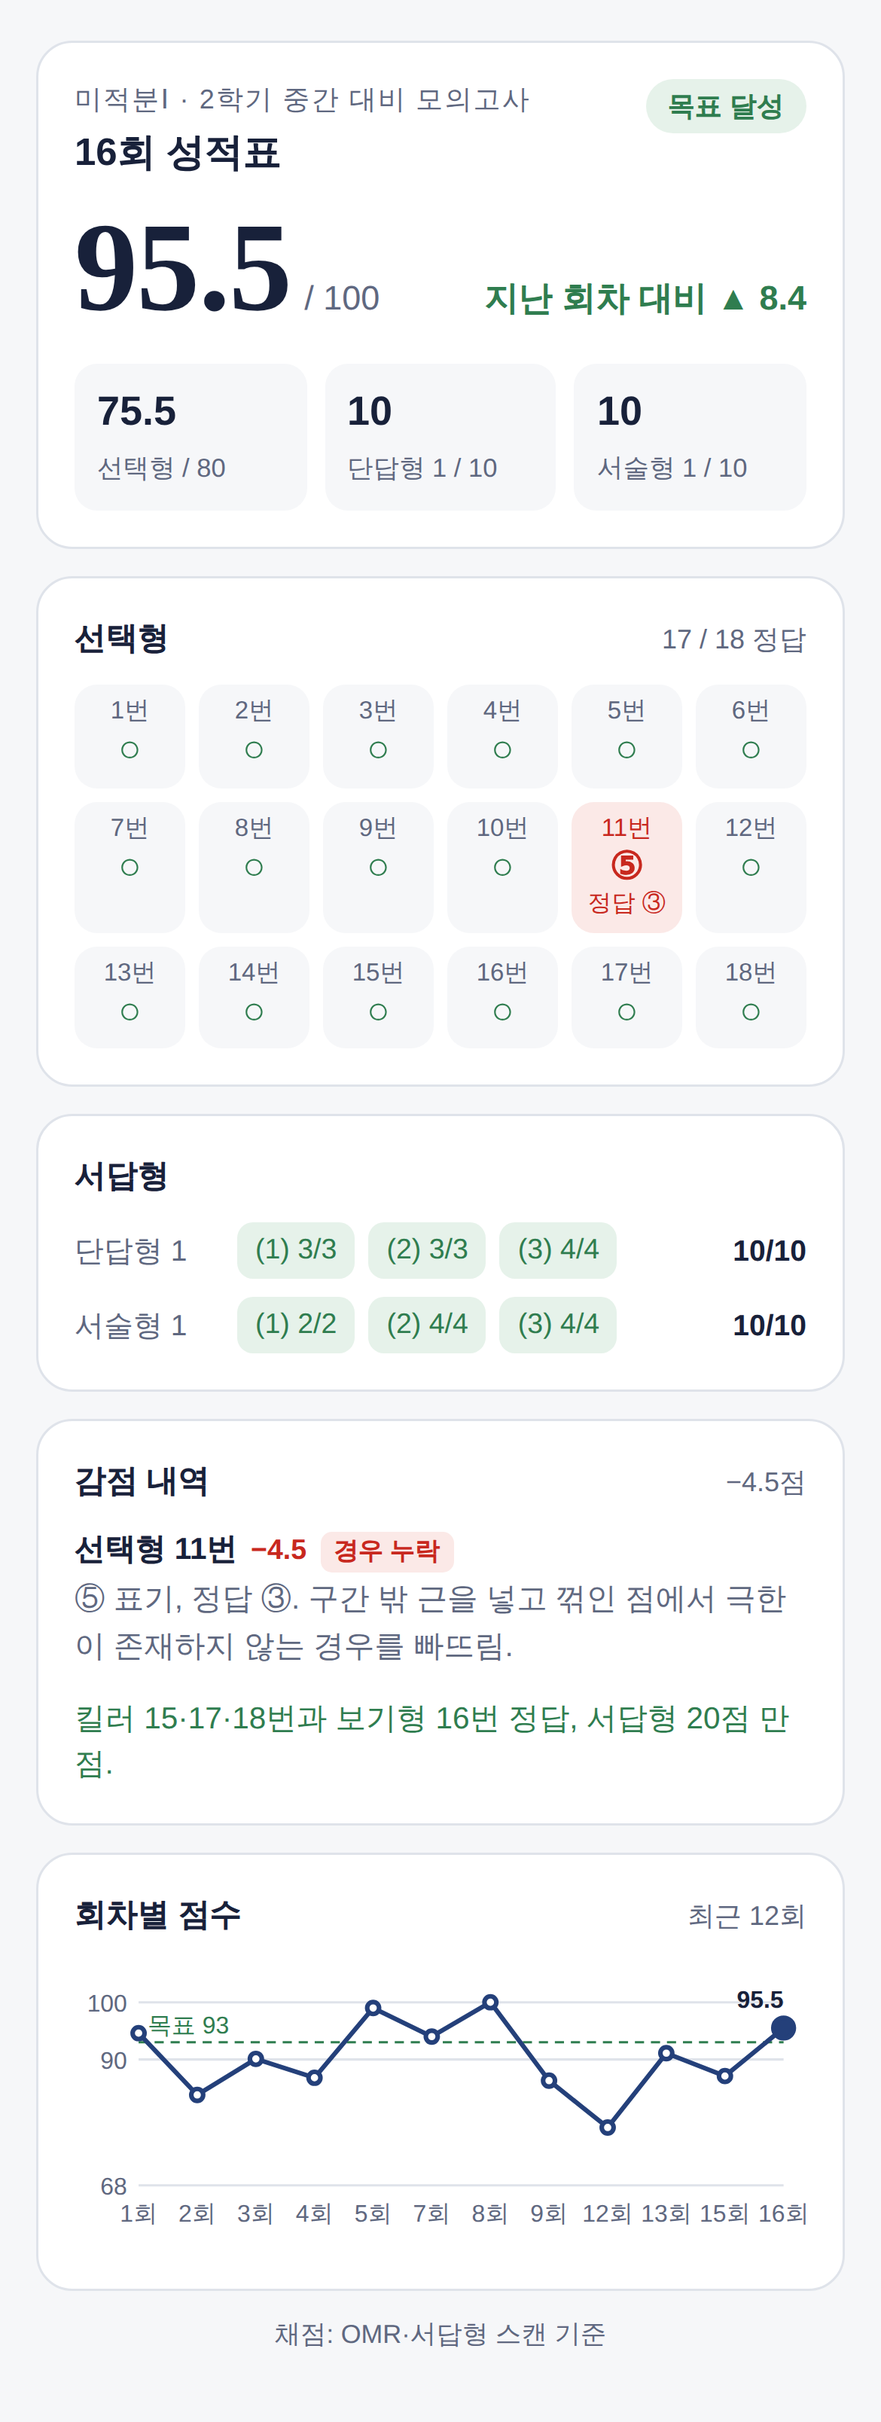
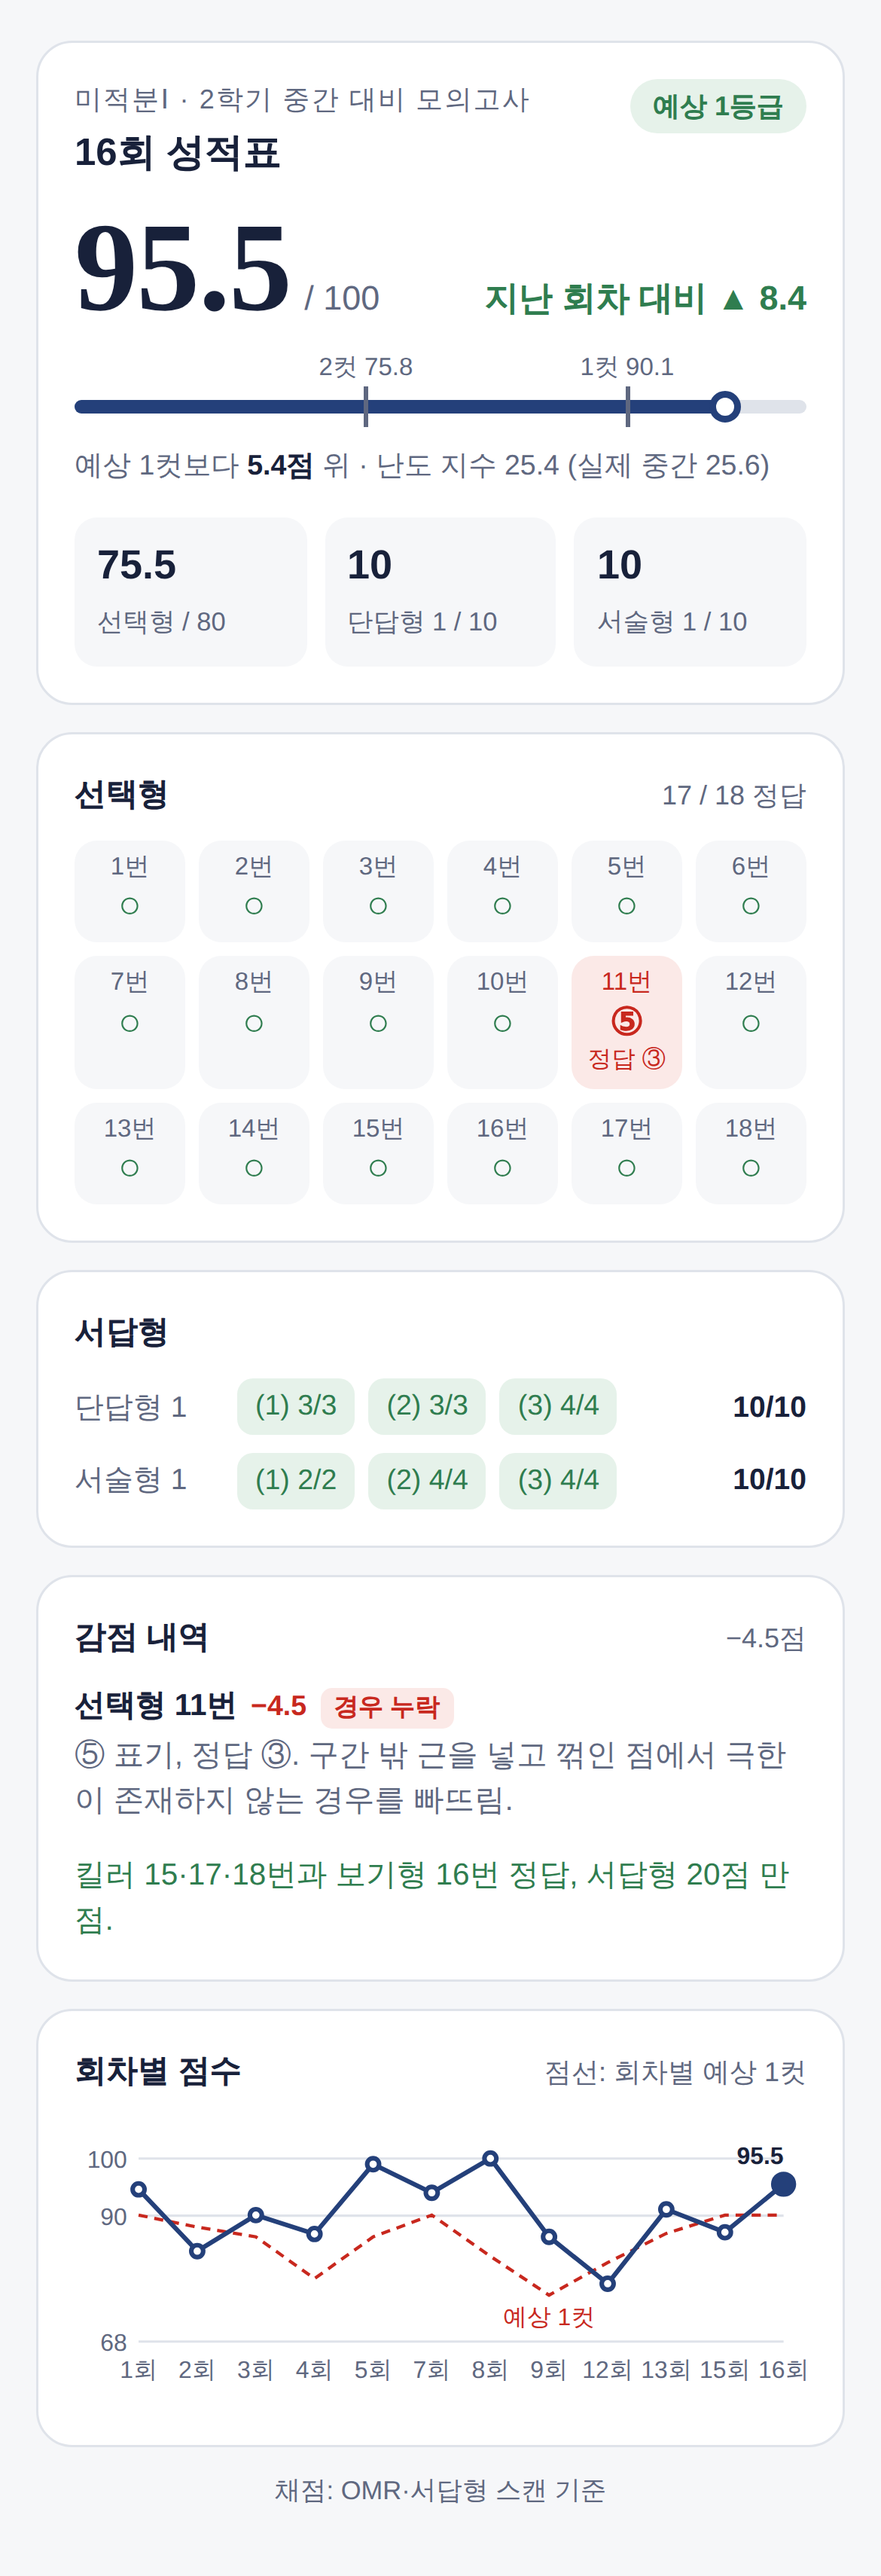
회차 성적표에 난도 지수 기반 예상 등급컷 추가(실제 중간 1컷 90.1로 보정)
Claude-Session: https://claude.ai/code/session_01FuL9qz9aGNuoMPYiqwBQHM

diff --git a/output/build/성적노트/round_tpl.html b/output/build/성적노트/round_tpl.html
@@ -32,6 +32,13 @@ h1{font-size:17px;font-weight:600;margin:2px 0 0}
 .big span{color:var(--muted);font-size:15px}
 .delta{font-size:13px;font-weight:600;margin-left:auto}
 .delta.up{color:var(--ok)} .delta.down{color:var(--red)}
+.cutbar{position:relative;height:30px;margin:18px 0 2px}
+.cutbar .track{position:absolute;left:0;right:0;top:12px;height:6px;border-radius:3px;background:var(--line)}
+.cutbar .fill{position:absolute;left:0;top:12px;height:6px;border-radius:3px;background:var(--navy)}
+.cutbar .tick{position:absolute;top:6px;width:2px;height:18px;background:var(--muted)}
+.cutbar .tick span{position:absolute;top:-16px;left:50%;transform:translateX(-50%);font-size:11px;color:var(--muted);white-space:nowrap}
+.cutbar .me{position:absolute;top:8px;width:14px;height:14px;margin-left:-7px;border-radius:50%;background:var(--card);border:3px solid var(--navy)}
+.cutnote{font-size:12.5px;color:var(--muted)} .cutnote b{color:var(--ink);font-weight:600}
 .parts{display:grid;grid-template-columns:repeat(3,1fr);gap:8px;margin-top:14px}
 .parts div{background:var(--paper);border-radius:10px;padding:8px 10px}
 .parts b{display:block;font-size:18px;font-weight:600}
@@ -71,11 +78,18 @@ const saParts=D.sa.map(s=>({...s,got:s.items.reduce((a,i)=>a+i.g,0),max:s.items.
 const total=mcScore+saParts.reduce((a,s)=>a+s.got,0);
 const prev=D.history.length>1?D.history[D.history.length-2].total:null;
 const wrong=D.mc.filter(q=>q.a!==q.m);
-const lvl=total>=D.goal?['목표 달성','ok']:total>=D.cut1?['1등급권','navy']:['목표까지 '+fmt(D.goal-total)+'점','warn'];
+const grade=total>=D.cut1?1:total>=D.cut2?2:3;
+const lvl=grade===1?['예상 1등급','ok']:grade===2?['예상 2등급','navy']:['예상 3등급 이하','warn'];
 
+function cutbar(){const lo=Math.min(60,Math.floor((Math.min(total,D.cut2)-5)/10)*10),pos=v=>((v-lo)/(100-lo)*100).toFixed(1)+'%';
+  return `<div class="cutbar" aria-hidden="true"><div class="track"></div><div class="fill" style="width:${pos(total)}"></div>
+  <div class="tick" style="left:${pos(D.cut2)}"><span>2컷 ${fmt(D.cut2)}</span></div><div class="tick" style="left:${pos(D.cut1)}"><span>1컷 ${fmt(D.cut1)}</span></div>
+  <div class="me" style="left:${pos(total)}"></div></div>
+  <div class="cutnote">${grade===1?`예상 1컷보다 <b>${fmt(total-D.cut1)}점</b> 위`:`예상 1컷까지 <b>${fmt(D.cut1-total)}점</b>`} · 난도 지수 ${fmt(D.idx)} (실제 중간 25.6)</div>`}
 let h=`<section class="card hero">
   <div class="top"><div><div class="eyebrow">${D.subject} · ${D.exam}</div><h1>${D.label} 성적표</h1></div><span class="pill ${lvl[1]}">${lvl[0]}</span></div>
   <div class="big"><b class="num">${fmt(total)}</b><span>/ 100</span>${prev!==null?`<span class="delta ${total>=prev?'up':'down'} num">지난 회차 대비 ${total>=prev?'▲':'▼'} ${fmt(Math.abs(total-prev))}</span>`:''}</div>
+  ${cutbar()}
   <div class="parts"><div><b class="num">${fmt(mcScore)}</b><span>선택형 / 80</span></div>${saParts.map(s=>`<div><b class="num">${fmt(s.got)}</b><span>${s.name} / ${s.max}</span></div>`).join('')}</div>
 </section>`;
 
@@ -88,14 +102,16 @@ const notes=D.notes.length?`<ul class="notes">${D.notes.map(n=>`<li><div class="
 h+=`<section class="card"><h2>감점 내역 <small>−${fmt(100-total)}점</small></h2>${notes}${D.praise?`<p class="good" style="margin:12px 0 0">${D.praise}</p>`:''}</section>`;
 
 if(D.history.length>1){
-  const H=D.history,W=320,Hh=120,L=28,R=10,T=18,B=22,y0=Math.min(70,...H.map(x=>x.total))-2,y1=100;
+  const H=D.history,W=320,Hh=120,L=28,R=10,T=18,B=22,y0=Math.min(70,...H.map(x=>x.total),...H.map(x=>x.cut1||100))-2,y1=100;
   const xs=i=>L+(W-L-R)*i/(H.length-1),ys=v=>T+(Hh-T-B)*(1-(v-y0)/(y1-y0));
   let g='';[y0,90,y1].forEach(v=>{g+=`<line x1="${L}" x2="${W-R}" y1="${ys(v)}" y2="${ys(v)}" stroke="var(--line)"/><text x="${L-5}" y="${ys(v)+4}" text-anchor="end">${Math.round(v)}</text>`});
-  g+=`<line x1="${L}" x2="${W-R}" y1="${ys(D.goal)}" y2="${ys(D.goal)}" stroke="var(--ok)" stroke-dasharray="4 3"/><text x="${L+4}" y="${ys(D.goal)-4}" style="fill:var(--ok)">목표 ${D.goal}</text>`;
+  if(H.every(x=>x.cut1)){g+=`<polyline points="${H.map((x,i)=>xs(i)+','+ys(x.cut1)).join(' ')}" fill="none" stroke="var(--red)" stroke-width="1.4" stroke-dasharray="4 3"/>`;
+    const lowI=H.reduce((m,x,i)=>x.cut1<H[m].cut1?i:m,0);
+    g+=`<text x="${xs(lowI)}" y="${ys(H[lowI].cut1)+13}" text-anchor="middle" style="fill:var(--red)">예상 1컷</text>`;}
   g+=`<polyline points="${H.map((x,i)=>xs(i)+','+ys(x.total)).join(' ')}" fill="none" stroke="var(--navy)" stroke-width="2" stroke-linejoin="round"/>`;
   H.forEach((x,i)=>{const last=i===H.length-1;g+=`<circle cx="${xs(i)}" cy="${ys(x.total)}" r="${last?4.5:2.6}" fill="${last?'var(--navy)':'var(--card)'}" stroke="var(--navy)" stroke-width="2"/><text x="${xs(i)}" y="${Hh-6}" text-anchor="middle">${x.r}</text>`});
   const li=H.length-1;g+=`<text x="${xs(li)}" y="${ys(H[li].total)-9}" text-anchor="end" style="fill:var(--ink);font-weight:600">${fmt(H[li].total)}</text>`;
-  h+=`<section class="card"><h2>회차별 점수 <small>최근 ${H.length}회</small></h2><svg viewBox="0 0 ${W} ${Hh}" width="100%" role="img" aria-label="회차별 점수 추이">${g}</svg></section>`;
+  h+=`<section class="card"><h2>회차별 점수 <small>점선: 회차별 예상 1컷</small></h2><svg viewBox="0 0 ${W} ${Hh}" width="100%" role="img" aria-label="회차별 점수 추이">${g}</svg></section>`;
 }
 h+=`<footer>${D.footer}</footer>`;
 document.getElementById('app').innerHTML=h;

diff --git a/output/build/성적노트/template.html b/output/build/성적노트/template.html
@@ -153,7 +153,7 @@ footer{color:var(--muted);font-size:12px;margin-top:28px}
     <div class="goal">
       <div class="eyebrow" style="color:inherit;opacity:.8">미적분Ⅰ 기말 · 12월 중순 · 부교재 p.80–189</div>
       <div class="score num" style="margin-top:8px">93<small style="color:inherit;opacity:.8">점 이상</small></div>
-      <p>중간 88.8점은 1등급 컷 경계였어요. 1학기처럼 기말 1컷이 90 근처로 오르면 93점이 안전선이에요.</p>
+      <p>중간 1컷은 90.1이었고 88.8점으로 1.3점 모자랐어요. 1학기 기말과 2학기 중간 모두 1컷이 90.1이라, 기말도 90 안팎으로 보고 93점을 안전선으로 잡았어요.</p>
       <ul>
         <li>기본·2등급 문항 전부 정답, 킬러 하나만 허용</li>
         <li>매 회 근 구조·중복도 문항 1개 고정 연습</li>
@@ -162,7 +162,7 @@ footer{color:var(--muted);font-size:12px;margin-top:28px}
     </div>
   </section>
 
-  <footer>모의고사 점수는 업로드한 OMR·서답형 스캔을 채점한 결과예요. 등급컷은 예상치예요.</footer>
+  <footer>모의고사 점수는 업로드한 OMR·서답형 스캔을 채점한 결과예요. 미적분Ⅰ 중간 1컷 90.1은 실제 값이고, 나머지 등급컷은 예상치예요.</footer>
 </div>
 
 <script>
@@ -173,11 +173,11 @@ const fmt=v=>(Math.round(v*10)/10).toFixed(1).replace(/\.0$/,'');
 
 /* 실제 시험 */
 const exams=[
-  {name:'미적분Ⅰ',date:'10월 13일(화)',score:88.8,cut1:88.6,cut2:75.3,lo:60,
-   pill:['1등급 경계','warn'],
+  {name:'미적분Ⅰ',date:'10월 13일(화)',score:88.8,cut1:90.1,cut2:75.3,lo:60,
+   pill:['2등급 · 1컷까지 1.3점','warn'],
    parts:[['선택형','74.8','80'],['서답형 1','10','10'],['서답형 2','4','10']],
    loss:['18번 f(x)/f(x²) 불연속 (5.2점) · 근이 ±쌍으로 생기는 구조를 놓침','서답형 2 (2)(3) (6점) · 판별식 경계의 정수 세기, (2)→(3) 연쇄'],
-   note:'1컷 학원 예상 88.6 · 내 예상 87'},
+   note:'실제 1컷 90.1 · 2컷은 학원 예상'},
   {name:'인공지능 수학',date:'10월 14일(수)',score:100,cut1:92,cut2:76,lo:60,
    pill:['만점 · 1등급','ok'],
    parts:[['선택형','76','76'],['단답형','24','24'],['적중','20/20','문항']],

diff --git a/output/build/성적노트/make_round.py b/output/build/성적노트/make_round.py
@@ -5,8 +5,20 @@ round.json = {subject, exam, label, mc:[{n,a,m,p}], sa:[{name,items:[{k,p,g}]}],
 import json, sys, os, subprocess
 HERE = os.path.dirname(os.path.abspath(__file__))
 
+# 예상 등급컷: 난도 지수 = 1등급 변별 배점 + 0.5 × 2등급 변별 배점 (서답형 고난도 소문항 6점)
+# 실제 1컷 기준점: 1학기 기말(지수 15.2) 90.1, 2학기 중간(지수 25.6) 90.1 → 지수 25.6 이하에서는 1컷 90.1로 고정.
+# 그보다 어려우면 1학기 중간(지수 37.1, 1컷 약 81) 쪽으로 지수 1당 0.75점씩 내려감. 2컷은 1학기 기말 76.1·학원 예상 75.3 기준.
+def cuts(idx):
+    c1 = 90.1 - 0.75 * max(0.0, idx - 25.6)
+    c2 = 75.8 - 1.0 * max(0.0, idx - 25.6)
+    return round(c1, 1), round(c2, 1)
+
 def build(src, out, png=None):
     d = json.load(open(src))
+    if 'idx' in d and 'cut1' not in d:
+        d['cut1'], d['cut2'] = cuts(d['idx'])
+    for h in d.get('history', []):
+        if 'idx' in h and 'cut1' not in h: h['cut1'] = cuts(h['idx'])[0]
     t = open(os.path.join(HERE, 'round_tpl.html')).read()
     html = t.replace('__TITLE__', f"{d['label']} 성적표").replace('__DATA__', json.dumps(d, ensure_ascii=False))
     open(out, 'w').write(html)

diff --git a/output/build/성적노트/diffidx.py b/output/build/성적노트/diffidx.py
@@ -1,0 +1,16 @@
+import sys,os,re,importlib.util,json
+base='/tmp/claude-0/-home-user-Finale/12e2698e-3f00-52d2-bb21-f0ec4f5dc473/scratchpad'
+r=int(sys.argv[1]);d=f'{base}/r{r}';os.chdir(d);sys.path.insert(0,d)
+import content3 as c
+s=open('sol3.py').read()
+ns={'__name__':'x'}
+# sol3 정의부(빌드 함수 전)까지만 실행
+m_=re.search(r'^(D|EX) = .*$',s,re.M); cut=m_.end()
+exec(s[:cut],ns)
+D=ns.get('D') or ns.get('EX')
+sa=re.findall(r"\('(단답형[^']*|서술형[^']*)',\s*\w+,\s*'([^']*)'\)",s)
+one=sum(c.Q[n][0] for n in range(1,19) if D[n][4] in('상','최상'))
+two=sum(c.Q[n][0] for n in range(1,19) if D[n][4]=='중상')
+sahi=sum(6 for lab,dd in sa if dd.split('→')[-1].strip() in('상','최상'))
+samid=sum(6 for lab,dd in sa if dd.split('→')[-1].strip()=='중상')
+print(json.dumps({'r':r,'one':round(one+sahi,1),'two':round(two+samid,1),'sa':sa,'lv':[D[n][4] for n in range(1,19)]},ensure_ascii=False))
